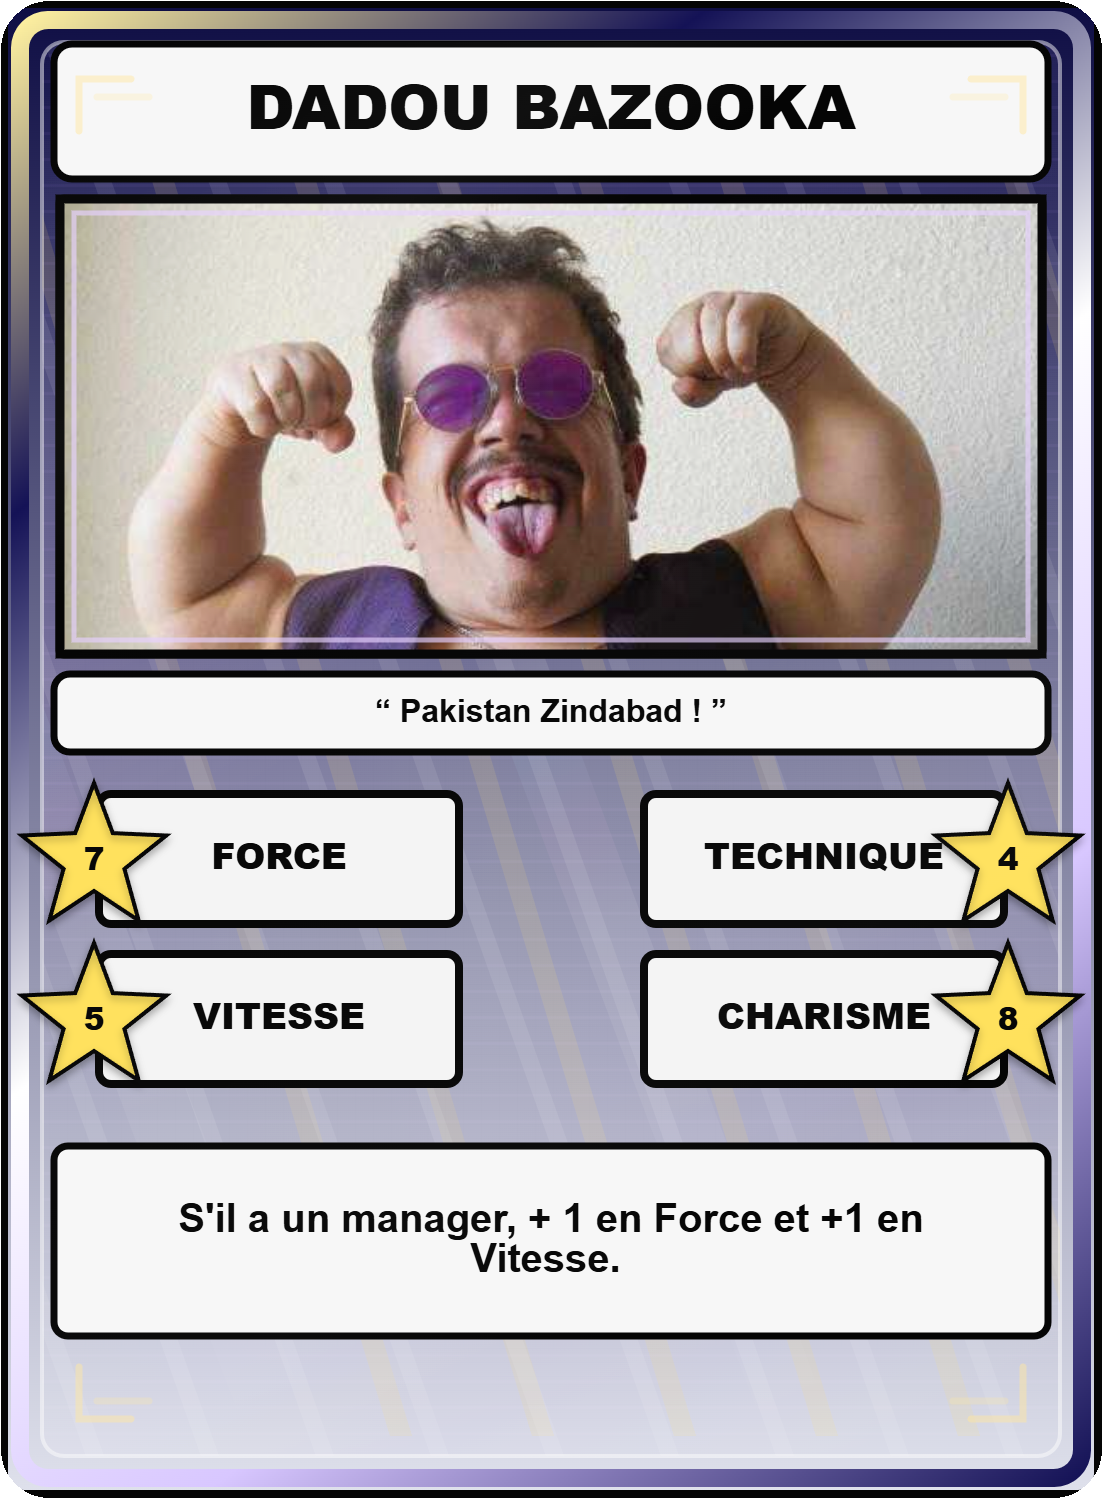
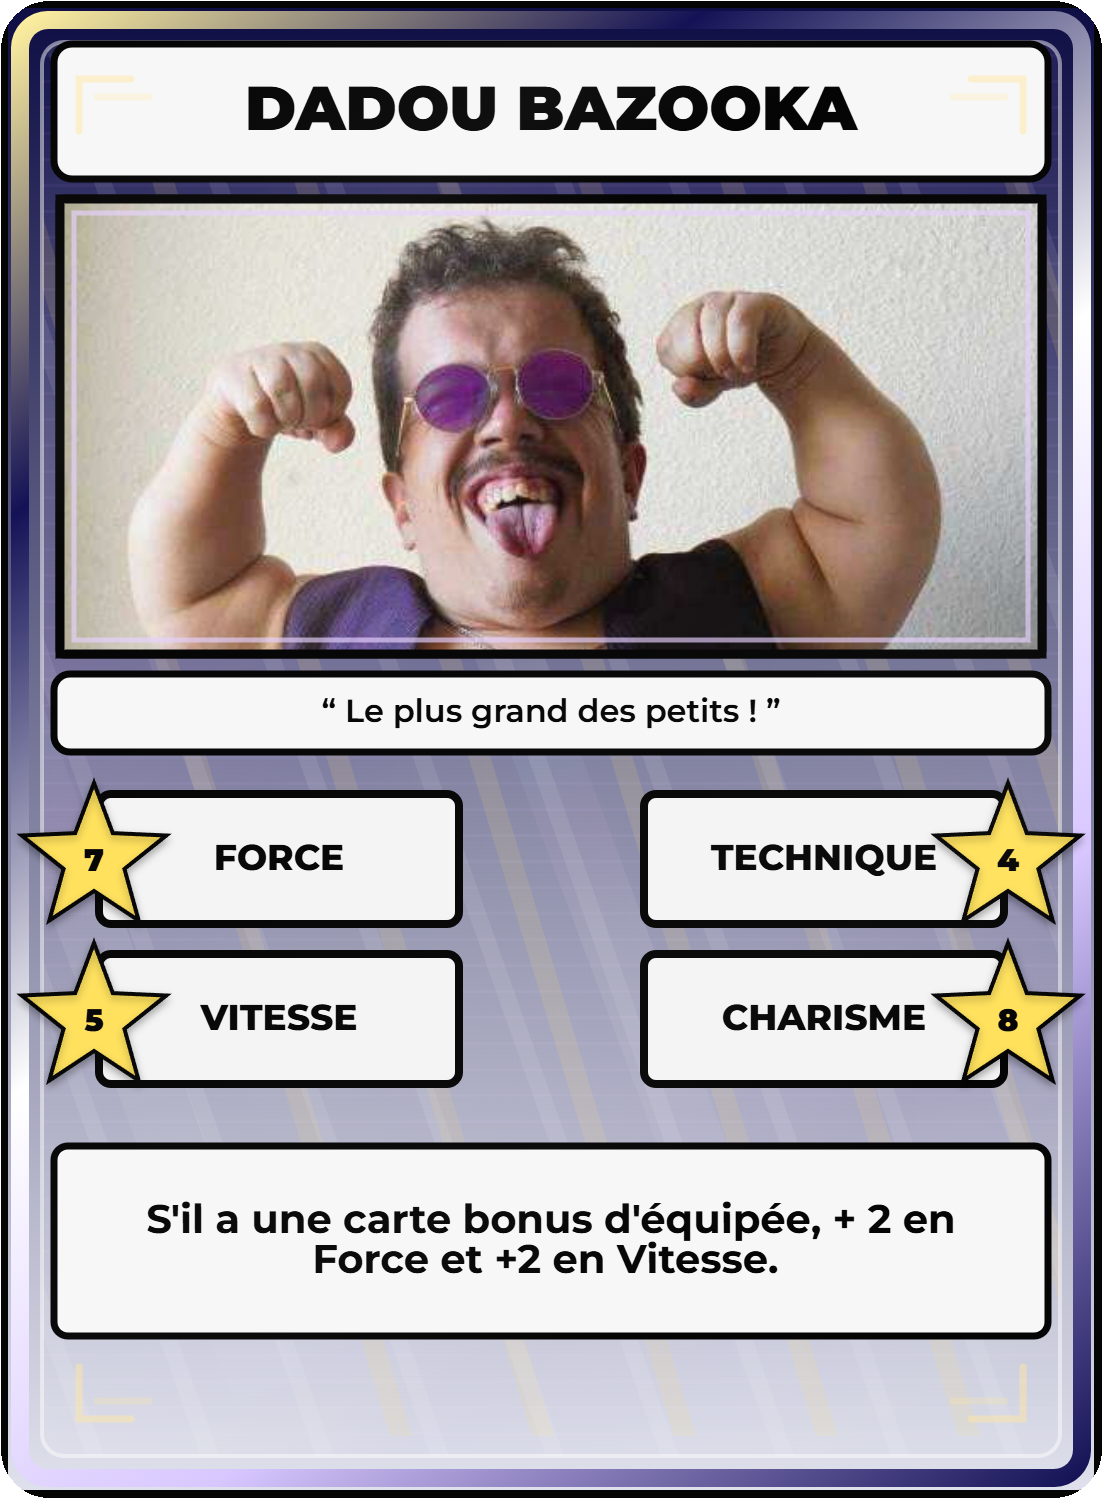
Complete 0.2.8 gameplay and menu updates

diff --git a/js/game.js b/js/game.js
@@ -784,8 +784,8 @@ const CARD_DATA = [
       "Technique": 4,
       "Charisme": 8
     },
-    "effect": "S'il a un bonus, + 1 en Force et +1 en Vitesse.",
-    "ability": "managerOwnedForceSpeed1",
+    "effect": "S'il a une carte bonus d'\u00e9quip\u00e9e, +2 en Force et +2 en Vitesse.",
+    "ability": "bonusEquippedForceSpeed2",
     "renderArt": "assets/card_renders/rare_catcheurs_dadou_bazooka.png",
     "musicId": "dadou_bazooka"
   },
@@ -2942,7 +2942,7 @@ const EFFECT_REGISTRY = {
   mVitesse1: { timing:"manager", text:"+1 Vitesse." },
   matchRoundOneAll1: { timing:"round1", text:"Round 1 : +1 dans toutes les statistiques." },
   graveElAmnesicoAll1: { timing:"grave", text:"Au vestiaire : El Amnesico gagne +1 partout." },
-  managerOwnedForceSpeed1: { timing:"duel", text:"Si un bonus est actif : +1 Force et +1 Vitesse." },
+  bonusEquippedForceSpeed2: { timing:"duel", text:"Si une carte bonus est \u00e9quip\u00e9e : +2 Force et +2 Vitesse." },
   managerOwnedTechForceSpeed1: { timing:"duel", text:"Si un bonus est actif : +1 Technique, Force et Vitesse." },
   nextEntryAll1: { timing:"defeat", text:"Une fois par match, le prochain catcheur gagne +1 partout." },
   nextSpeedOnFirstLoss1: { timing:"firstLoss", text:"Si la carte perd son premier round, prochain catcheur +1 Vitesse." },
@@ -6336,7 +6336,7 @@ function score(s,stat){
   if(ability==="firstRoundSpeedCharisma3"&&firstRound&&(stat==="Vitesse"||stat==="Charisme"))v+=3;
   if(ability==="techniqueRound1"&&firstRound&&stat==="Technique")v+=3;
   if(ability==="managerOwnedTechForceSpeed1"&&s.owner?.man&&(stat==="Technique"||stat==="Force"||stat==="Vitesse"))v+=1;
-  if(ability==="managerOwnedForceSpeed1"&&s.owner?.man&&(stat==="Force"||stat==="Vitesse"))v+=1;
+  if(ability==="bonusEquippedForceSpeed2"&&s.owner?.man&&(stat==="Force"||stat==="Vitesse"))v+=2;
   if(ability==="round2ActiveStat3"&&G.round===2)v+=3;
   if(ability==="round4All1"&&G.round===4)v+=1;
   if(ability==="secondPlayerForceCharisma1"&&s.owner?.side&&G.roundStarter&&s.owner.side!==G.roundStarter&&(stat==="Force"||stat==="Charisme"))v+=1;
@@ -6393,7 +6393,7 @@ function statAbilityFeedback(s,stat){
   if(ability==="firstRoundSpeedCharisma3"&&firstRound&&(stat==="Vitesse"||stat==="Charisme"))return `+3 ${stat}`;
   if(ability==="techniqueRound1"&&firstRound&&stat==="Technique")return "+3 Technique";
   if(ability==="managerOwnedTechForceSpeed1"&&s.owner?.man&&(stat==="Technique"||stat==="Force"||stat==="Vitesse"))return `Bonus +1 ${stat}`;
-  if(ability==="managerOwnedForceSpeed1"&&s.owner?.man&&(stat==="Force"||stat==="Vitesse"))return `Bonus +1 ${stat}`;
+  if(ability==="bonusEquippedForceSpeed2"&&s.owner?.man&&(stat==="Force"||stat==="Vitesse"))return `Bonus +2 ${stat}`;
   if(ability==="round2ActiveStat3"&&G.round===2)return `Round 2 +3 ${stat}`;
   if(ability==="round4All1"&&G.round===4)return `Round 4 +1 ${stat}`;
   if(ability==="secondPlayerForceCharisma1"&&s.owner?.side&&G.roundStarter&&s.owner.side!==G.roundStarter&&(stat==="Force"||stat==="Charisme"))return `Second +1 ${stat}`;

diff --git a/index.html b/index.html
@@ -71,11 +71,11 @@
           <button class="home-quick-close" type="button" onclick="closeHomeQuickPanel()" aria-label="Fermer">&times;</button>
         </div>
         <div class="home-quick-actions">
-          <button type="button" onclick="showProfile()"><b>&#9679;</b><span>Profil</span></button>
-          <button type="button" onclick="showHomeOptions()"><b>&#9881;</b><span>Options</span></button>
-          <button type="button" onclick="playPreviousTheme()"><b>&#9198;</b><span>Musique pr&eacute;c&eacute;dente</span></button>
-          <button class="music-pause-toggle" type="button" onclick="toggleThemePause()"><b>&#10074;&#10074;</b><span>Pause musique</span></button>
-          <button type="button" onclick="playNextTheme()"><b>&#9197;</b><span>Musique suivante</span></button>
+          <button class="home-quick-primary" type="button" onclick="showProfile()"><b>&#9679;</b><span>Profil</span></button>
+          <button class="home-quick-primary" type="button" onclick="showHomeOptions()"><b>&#9881;</b><span>Options</span></button>
+          <button class="home-quick-audio" type="button" onclick="playPreviousTheme()"><b>&#9198;</b><span>Musique<br>pr&eacute;c&eacute;dente</span></button>
+          <button class="home-quick-audio music-pause-toggle" type="button" onclick="toggleThemePause()"><b>&#10074;&#10074;</b><span>Pause</span></button>
+          <button class="home-quick-audio" type="button" onclick="playNextTheme()"><b>&#9197;</b><span>Musique<br>suivante</span></button>
           <button class="home-ticket-action" type="button" onclick="showTickets()"><b>&#9993;</b><span>Tickets</span></button>
         </div>
       </section>

diff --git a/js/multiplayerClient.js b/js/multiplayerClient.js
@@ -180,17 +180,17 @@ function sortMultiLeaderboard(entries=[]){
   return [...entries].sort((a,b)=>{
     const progressA = window.AllstarRankingService.normalizeProgress(a);
     const progressB = window.AllstarRankingService.normalizeProgress(b);
+    const totalA = leaderboardTotalMatches(a);
+    const totalB = leaderboardTotalMatches(b);
+    if(multiLeaderboardSort === "matches")return totalB-totalA || progressB.elo-progressA.elo || leaderboardCreatedAt(a)-leaderboardCreatedAt(b);
     const tryoutsA=progressA.rankedMatches<window.AllstarRankingService.TRYOUT_MATCHES;
     const tryoutsB=progressB.rankedMatches<window.AllstarRankingService.TRYOUT_MATCHES;
     if(tryoutsA||tryoutsB){
       if(tryoutsA!==tryoutsB)return tryoutsA ? 1 : -1;
       return leaderboardCreatedAt(a)-leaderboardCreatedAt(b)||String(a.pseudo||"").localeCompare(String(b.pseudo||""),"fr");
     }
-    const totalA = leaderboardTotalMatches(a);
-    const totalB = leaderboardTotalMatches(b);
     const rateA = totalA ? progressA.wins / totalA : 0;
     const rateB = totalB ? progressB.wins / totalB : 0;
-    if(multiLeaderboardSort === "matches")return totalB-totalA || progressB.elo-progressA.elo;
     if(multiLeaderboardSort === "winrate")return rateB-rateA || totalB-totalA || progressB.elo-progressA.elo;
     if(multiLeaderboardSort === "record")return progressB.bestElo-progressA.bestElo || progressB.elo-progressA.elo;
     return progressB.elo-progressA.elo || totalB-totalA;

diff --git a/tools/allstar_balance_sim.js b/tools/allstar_balance_sim.js
@@ -298,7 +298,7 @@ function score(state, stat, round, roundStarter) {
   if (ability === "firstRoundSpeedCharisma3" && matchRoundOne && (stat === "Vitesse" || stat === "Charisme")) value += 3;
   if (ability === "techniqueRound1" && matchRoundOne && stat === "Technique") value += 3;
   if (ability === "managerOwnedTechForceSpeed1" && state.owner.man && (stat === "Technique" || stat === "Force" || stat === "Vitesse")) value += 1;
-  if (ability === "managerOwnedForceSpeed1" && state.owner.man && (stat === "Force" || stat === "Vitesse")) value += 1;
+  if (ability === "bonusEquippedForceSpeed2" && state.owner.man && (stat === "Force" || stat === "Vitesse")) value += 2;
   if (ability === "round2ActiveStat3" && round === 2) value += 3;
   if (ability === "secondPlayerTechniqueCharisma2" && state.owner.side !== roundStarter && (stat === "Technique" || stat === "Charisme")) value += 2;
   return value;

diff --git a/css/style.css b/css/style.css
@@ -6692,9 +6692,25 @@ button:disabled,
 
 #menu .home-quick-actions{
   display:grid;
-  grid-template-columns:repeat(2,minmax(0,1fr));
+  grid-template-columns:repeat(6,minmax(0,1fr));
   gap:10px;
   margin-top:16px;
+}
+
+#menu .home-quick-actions .home-quick-primary{
+  grid-column:span 3;
+}
+
+#menu .home-quick-actions .home-quick-audio{
+  grid-column:span 2;
+  min-width:0;
+  min-height:96px;
+  padding-inline:8px;
+}
+
+#menu .home-quick-actions .home-quick-audio span{
+  line-height:1.12;
+  text-align:center;
 }
 
 #menu .home-quick-actions button{
